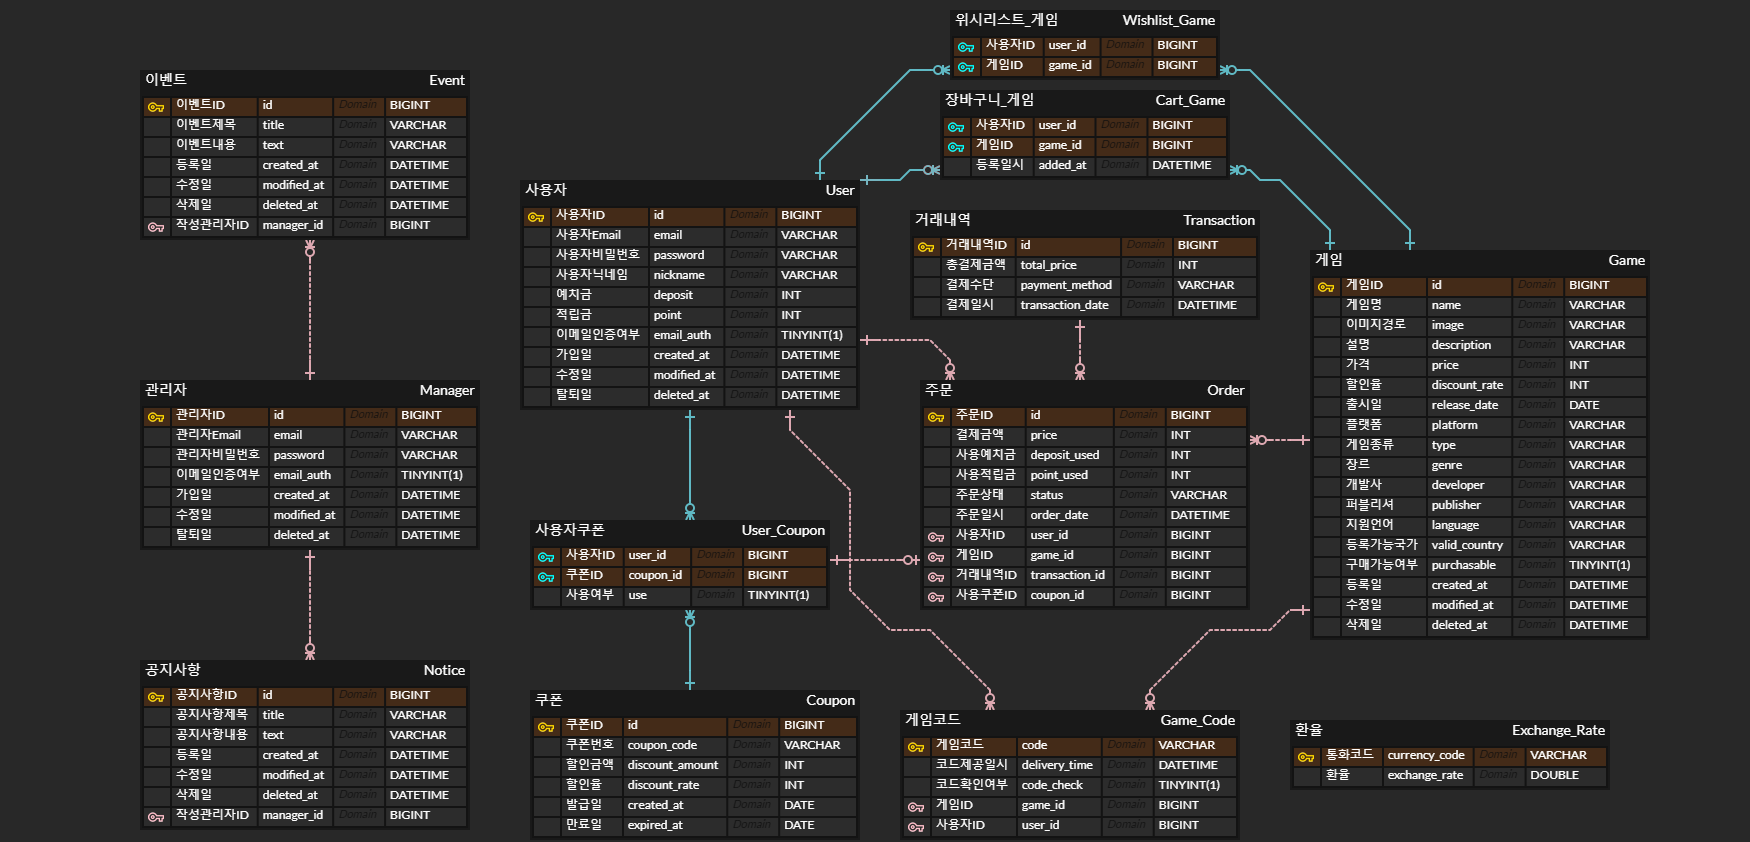
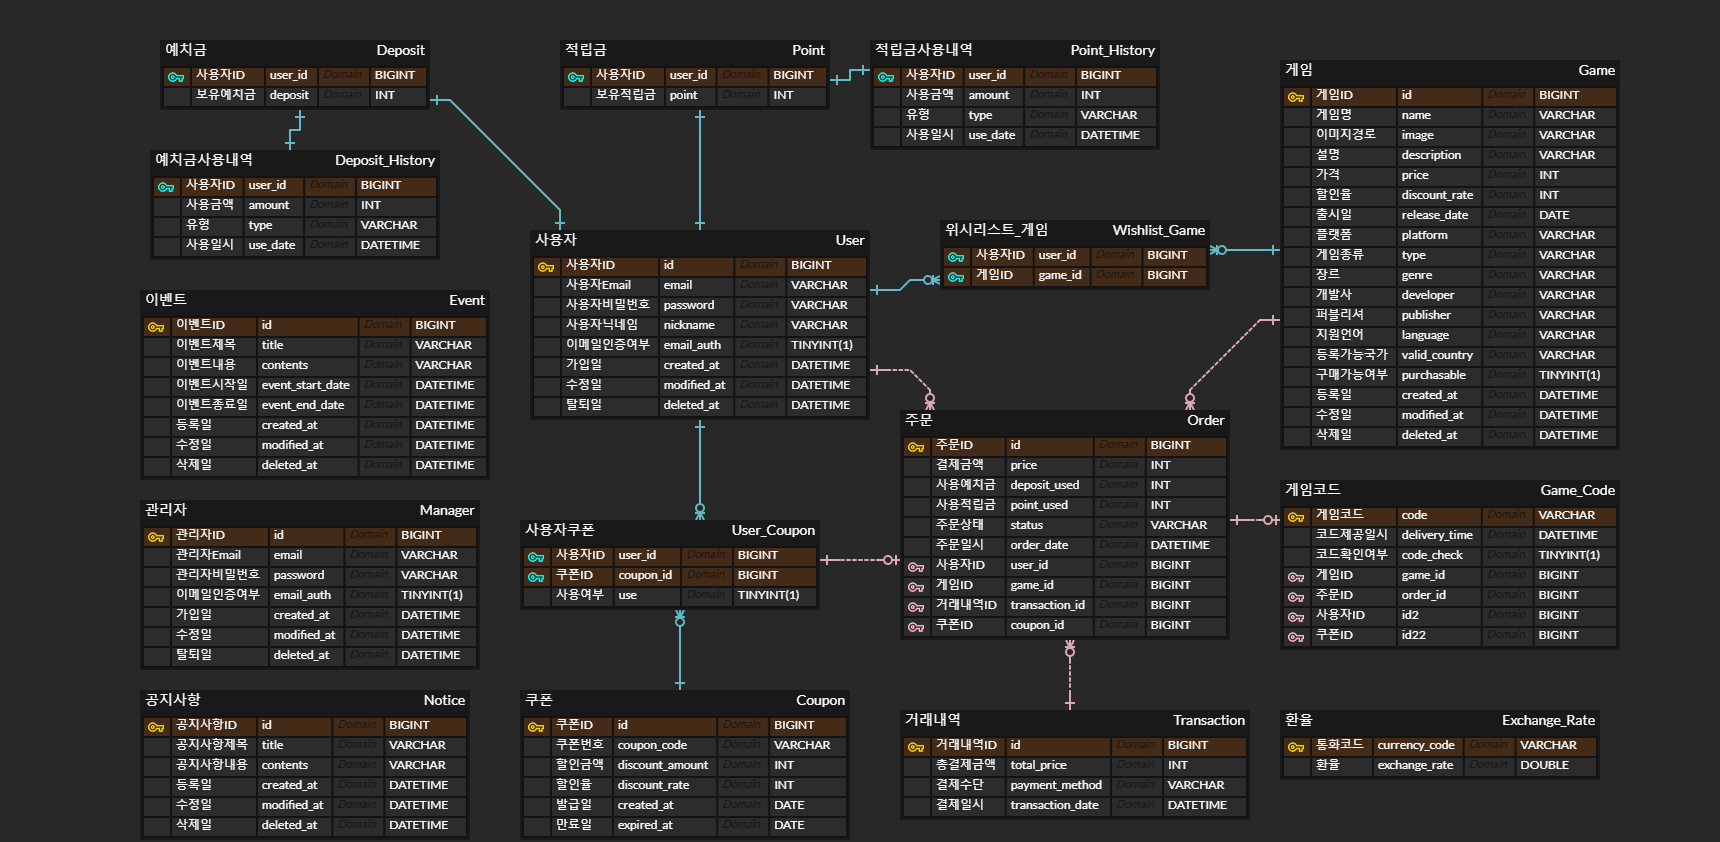
docs : update README.md

diff --git a/README.md b/README.md
@@ -12,8 +12,9 @@
 
 - [ ] 로그인 / 로그아웃
   - 사용자/관리자는 로그인을 할 수 있으며, 회원가입 시 입력한 이메일과 패스워드가 일치하여야 한다.
-  - 로그인 시 1일 간 유효한 토큰이 발급된다.
-  - 로그아웃 시 토큰이 만료된다.
+  - 로그인 시 1시간 동안 유효한 access 토큰과 2주간 유효한 refresh 토큰이 발급된다.
+  - access토큰이 만료되었다면 refresh 토큰이 존재하는 경우 재발급이 가능하다.
+  - 로그아웃 시 access 토큰이 blacklist에 등록되며, refresh 토큰은 db에서 삭제된다.
 
 - [ ] 회원 정보 조회 / 수정
   - 사용자의 경우 예치금 및 적립금 조회가 가능하다.
@@ -42,9 +43,9 @@
 - [ ] 게임 구매
   - 사용자는 게임 구매를 할 수 있으며 결제 수단을 고르고 결제할 수 있다.
   - 결제 시 예치금, 적립금, 쿠폰 사용이 가능하다.
-  - 예치금/적립금은 단위는 원화이다.
-  - 쿠폰은 금액(원화)만큼 할인되는 쿠폰과 할인율만큼 할인되는 쿠폰 2종류가 있다.
+  - 예치금/적립금은 단위는 원화이다.  
   - 쿠폰의 중복 사용은 불가능하다.
+  - 쿠폰과 예치금/적립금을 같이 사용 시 쿠폰부터 적용이 된다.
   - 구매 완료 시 구매 금액의 1%가 적립금에 추가되며 100원 미만은 버린다.
   - 구매 완료 시 메일로 구매 정보가 전송된다.
   - 구매 불가 게임의 경우 구매할 수 없다.
@@ -74,13 +75,23 @@
   - 사용자는 나중에 구매하고 싶은 게임을 위시리스트에 담을 수 있다.
   - 사용자는 위시리스트를 조회할 수 있다.
   - 사용자는 위시리스트에 등록된 게임을 1개 이상 골라서 삭제할 수 있다.
+  - 사용자는 위시리스트에 등록된 상품을 1개 이상 골라서 장바구니에 넣을 수 있다.
   - 중복 등록이 불가능하다.
+
+- [ ] 예치금
+  - 사용자는 보유 예치금을 조회할 수 있다.
+  - 사용자는 예치금 사용 내역을 조회할 수 있다.
+
+- [ ] 적립금
+  - 사용자는 보유 적립금을 조회할 수 있다.
+  - 사용자는 적립금 사용 내역을 조회할 수 있다.
   
 - [ ] 쿠폰
   - 사용자는 제공된 쿠폰 코드를 입력해 쿠폰 등록을 할 수 있다.
   - 사용자는 이미 등록한 쿠폰과 같은 쿠폰을 등록할 수 없다.
   - 사용자는 본인이 등록한 쿠폰을 이용 가능 기간으로 조회가 가능하다.
   - 관리자는 쿠폰을 발급/조회/수정/삭제가 가능하다.
+  - 쿠폰은 금액(원화)만큼 할인되는 쿠폰과 할인율만큼 할인되는 쿠폰 2종류가 있다.
   - 쿠폰은 쿠폰 번호와 할인금액/할인율, 만료일로 구성된다.
   - 쿠폰 번호는 16자리 숫자와 영문(대소문자 구분X)으로 구성된다.
 
@@ -96,16 +107,26 @@
   - 예약 구매 게임의 경우 출시일 0시에 코드를 제공한다.
   - 코드 제공 완료 시 사용자에게 알림 메일을 전송한다.
 
-- [ ] 공지사항, 이벤트
+- [ ] 공지사항
   - 로그인을 안하더라도 조회가 가능하다.
   - 페이징을 통해 한 페이지에 20개씩 표시된다.
-  - 관리자는 공지사항/이벤트를 등록/수정/삭제가 가능하다.
-  - 공지사항/이벤트는 제목과 내용으로 구성된다.
+  - 관리자는 공지사항을 등록/수정/삭제가 가능하다.
+  - 공지사항은 제목과 내용으로 구성된다.
+
+- [ ] 이벤트
+  - 로그인을 안하더라도 조회가 가능하다.
+  - 이벤트 페이지 접속 시 현재 진행중인 이벤트가 나온다
+  - 페이징을 통해 한 페이지에 20개씩 표시된다.
+  - 이벤트는 이벤트 기간으로 검색이 가능하며, 완료된 이벤트도 검색이 가능하다.
+  - 관리자는 이벤트를 등록/수정/삭제가 가능하다.
 
 - [ ] 환율 업데이트
   - 0시마다 환율이 최신 정보로 업데이트된다.
   - [한국수출입은행 현재환율 API](https://www.koreaexim.go.kr/ir/HPHKIR020M01?apino=2&viewtype=C&searchselect=&searchword=)를 이용한다.
 
+### 추가로 구현할 기능
+- [ ] 조회 API 캐싱
+- [ ] 예치금 충전 / 출금
 
 ## ERD
 ![ERD](doc/img/erd.png)
